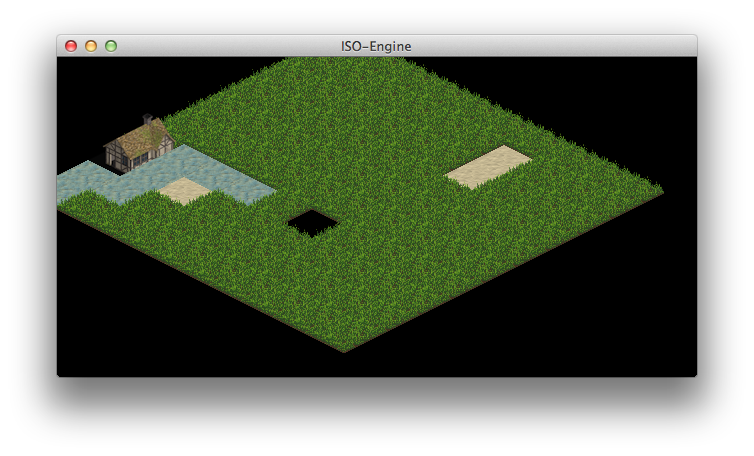
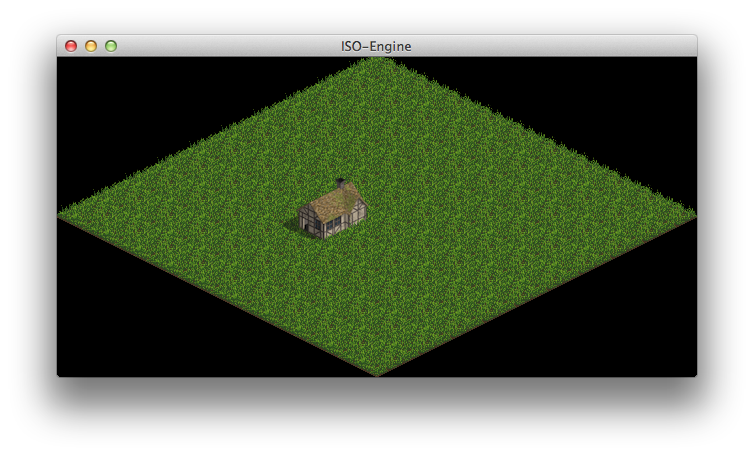
added a nice building, to show layers. updated currentstate.png

Changed region(s): [[0.061, 0.1228, 0.9456, 0.8289]]

diff --git a/src/world.cpp b/src/world.cpp
@@ -12,7 +12,11 @@ World::World(tex& tex_data) : texture_data(tex_data)
                             //next line creates one layer, initialized with grass tiles
                             , world_data(1, {std::vector<std::vector<tile>>(10, std::vector<tile>(10,{&(texture_data.grass), 27}))})
                             , dimension(10)
-{}
+{
+    std::vector<std::vector<tile>> temp(10, std::vector<tile>(10));
+    temp[4][3] = {&(texture_data.building), 40};
+    world_data.push_back({temp});
+}
 
 sf::Sprite World::getSprite(tile a) {
     return a.texture != nullptr ? sf::Sprite(*a.texture) : sf::Sprite();
